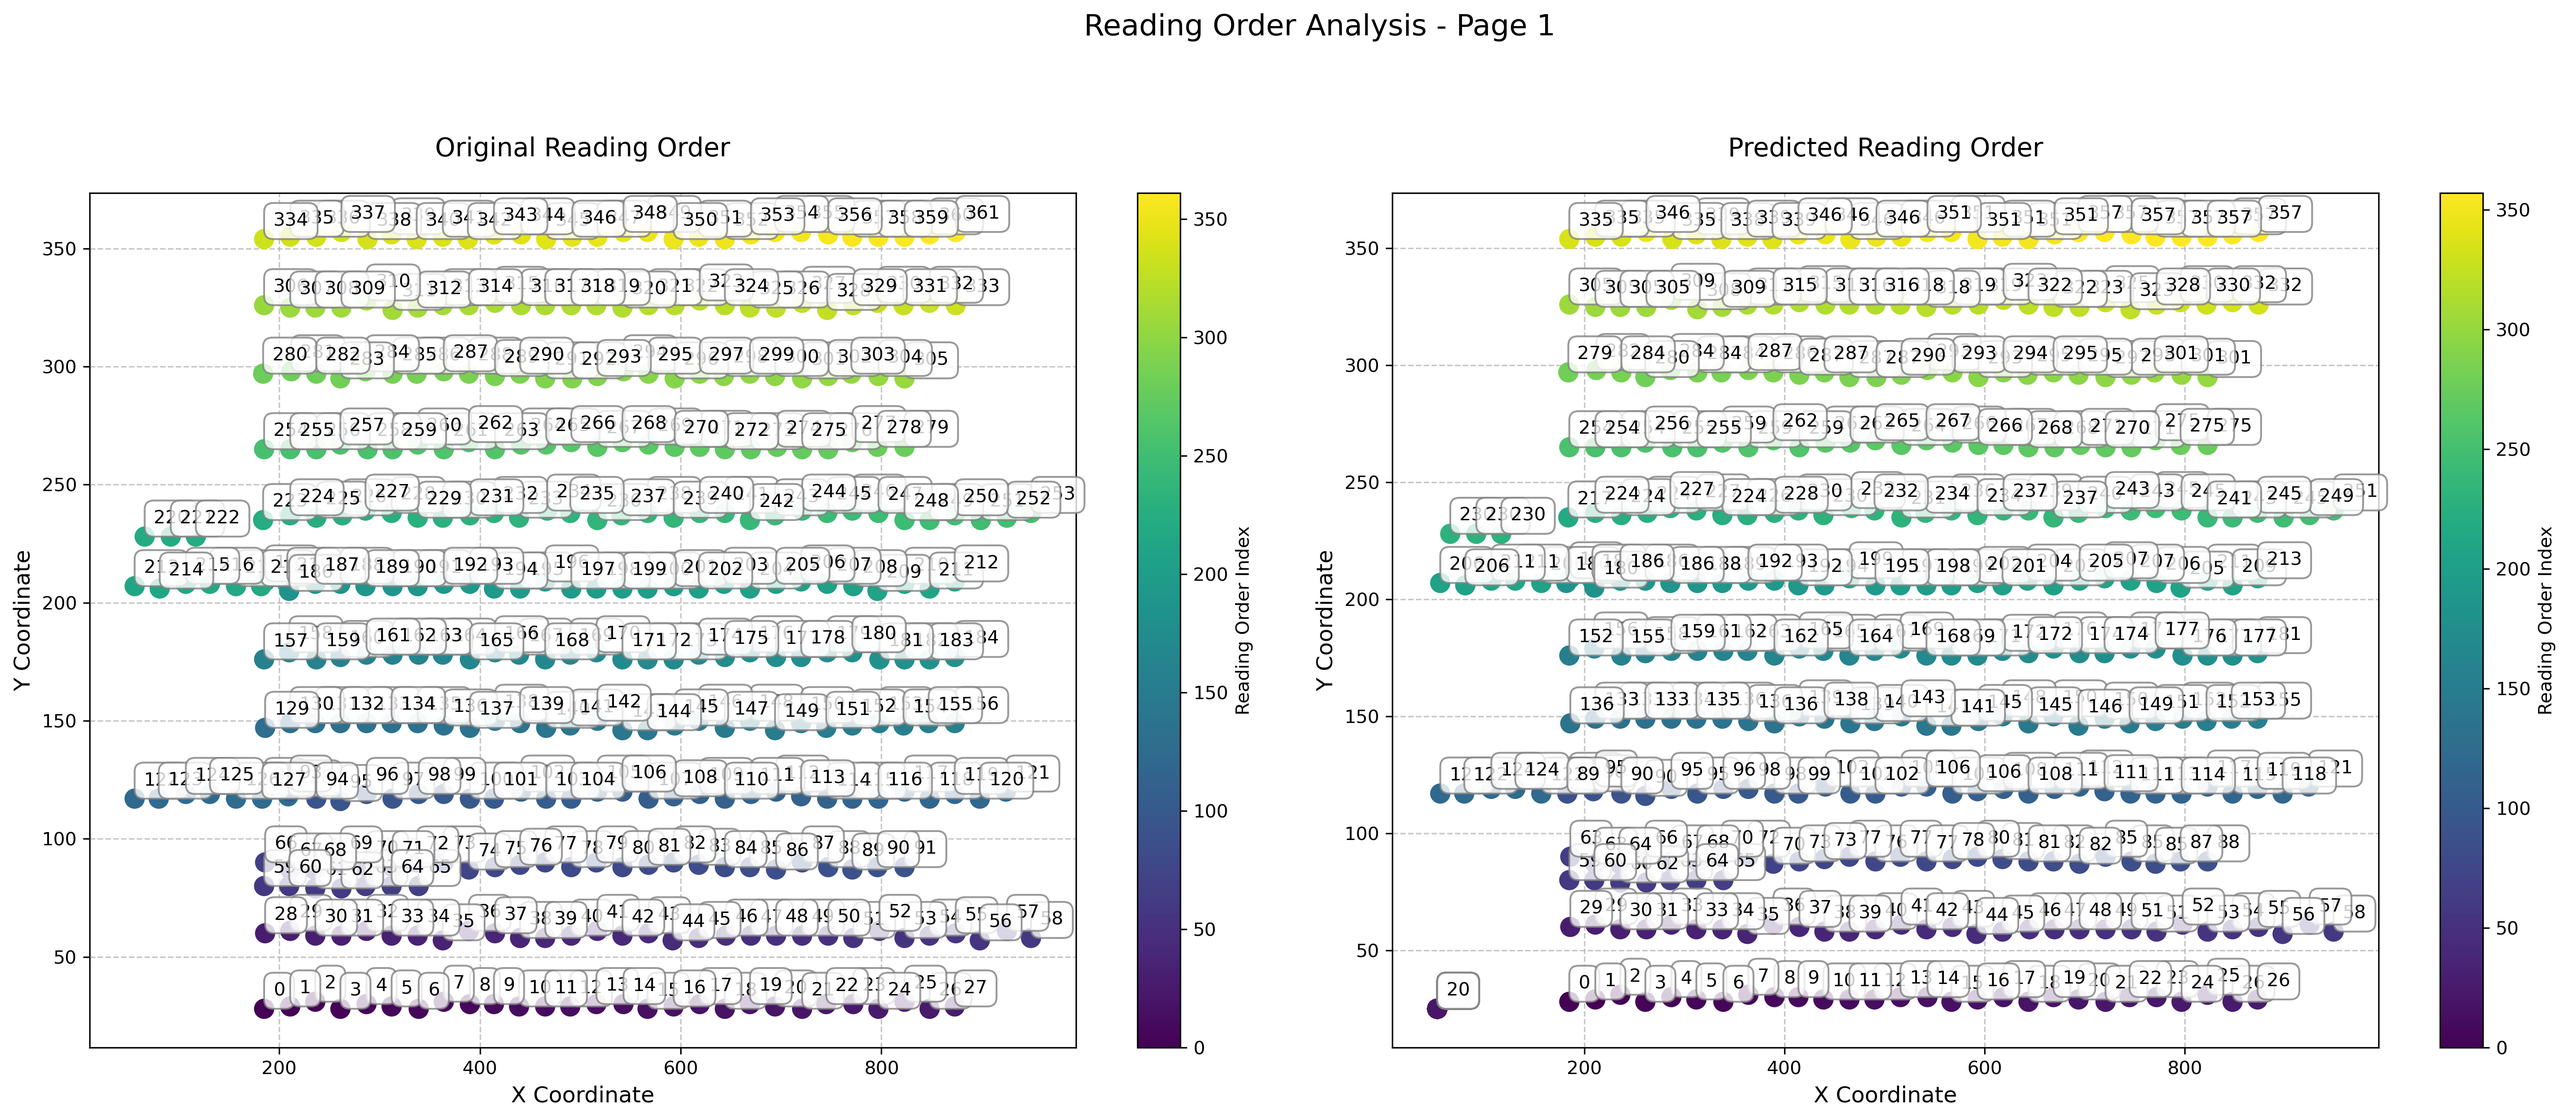
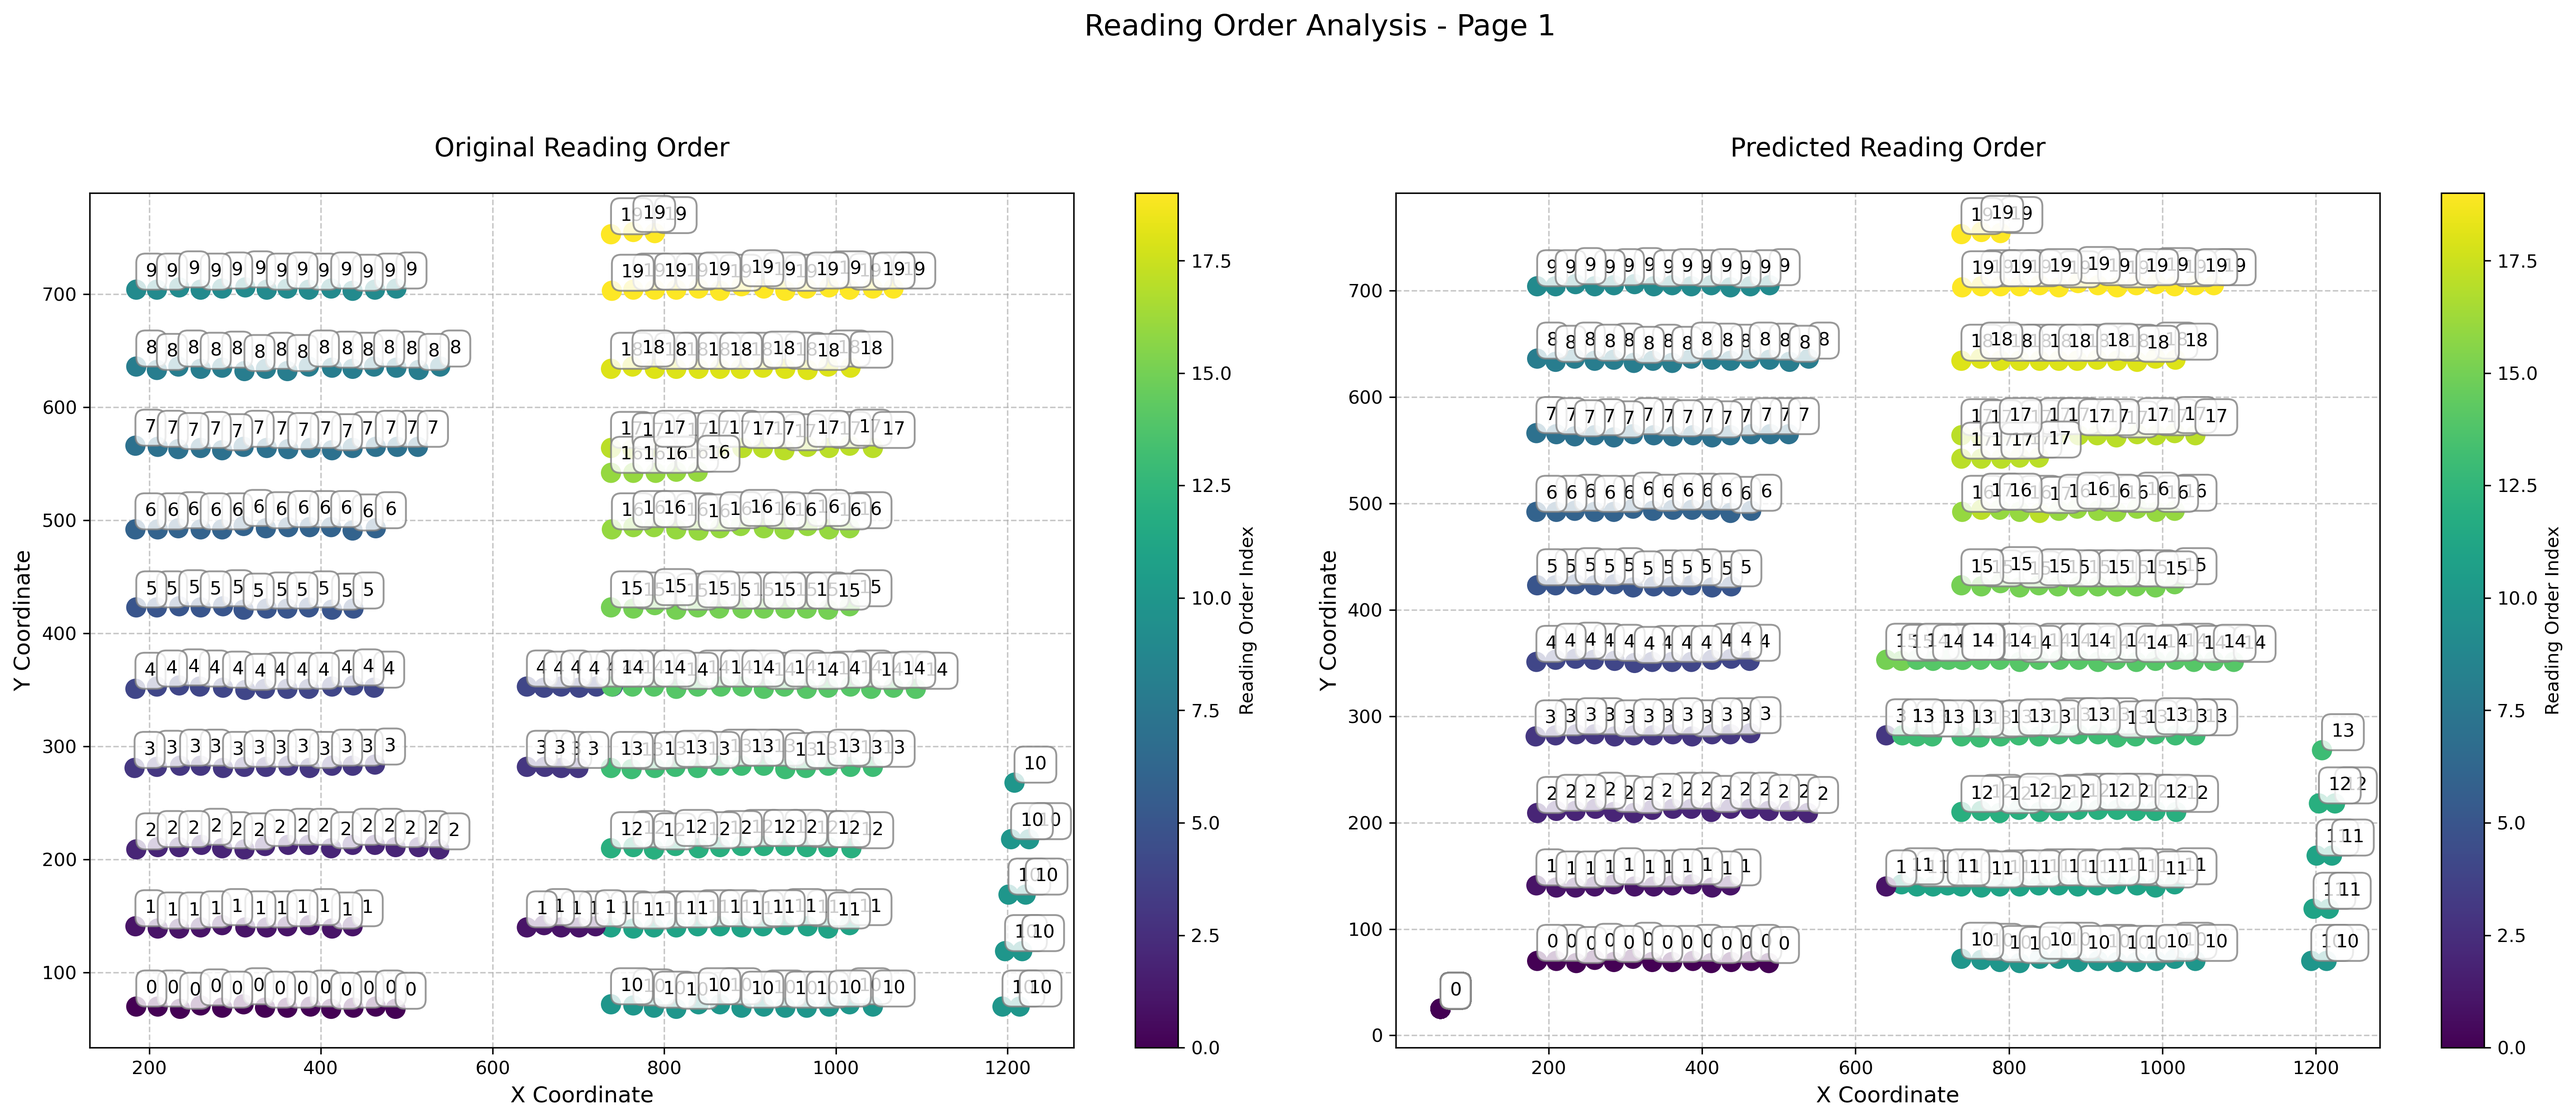
two columns generator

diff --git a/generate_data_2.py b/generate_data_2.py
@@ -1,0 +1,159 @@
+import numpy as np
+import random
+
+CHARS_PER_LINE = 34  # max possible characters per line for single column
+
+def generate_text_layout(page_width=1250, page_height=532, num_lines=20, chars_per_line_range=(30, 50),
+                        footnotes_prob=0.2, footnote_length_range=(10, 30), layout_type='single'):
+    """
+    Generate text layout with support for single and double columns
+    layout_type: 'single' or 'double' for column layout
+    """
+    points = []
+    labels = []
+    current_label = 0
+    
+    # Adjust parameters based on layout type
+    if layout_type == 'double':
+        # For double column, split the content area in half
+        column_width = (page_width * 0.7) / 2  # 70% of page width split into two columns
+        left_margins = [
+            page_width * 0.15,  # First column starts at 15% margin
+            page_width * 0.15 + column_width + (page_width * 0.1)  # Second column starts after first + gap
+        ]
+        right_margins = [
+            left_margins[0] + column_width,  # First column end
+            left_margins[1] + column_width   # Second column end
+        ]
+        chars_per_column = CHARS_PER_LINE // 2  # Reduce characters per line for each column
+    else:  # single column
+        left_margins = [page_width * 0.15]  # 15% margin from left
+        right_margins = [page_width * 0.85]  # 15% margin from right
+        chars_per_column = CHARS_PER_LINE
+    
+    line_height = page_height / (num_lines * 1.5)  # Allow space for footnotes
+    
+    # Generate text for each column
+    for col_idx, (left_margin, right_margin) in enumerate(zip(left_margins, right_margins)):
+        char_spacing = (right_margin - left_margin) / chars_per_column
+        y_position = line_height  # Start from top with some margin
+        
+        # Adjust number of lines for double column to fill page
+        col_lines = num_lines * 2 if layout_type == 'double' else num_lines
+        
+        # Generate main text lines for this column
+        for line_num in range(col_lines):
+            # Adjust character range for column width
+            adjusted_range = (
+                min(chars_per_line_range[0], chars_per_column),
+                min(chars_per_line_range[1], chars_per_column)
+            )
+            num_chars = random.randint(*adjusted_range)
+            
+            # Generate character positions for this line
+            for char_num in range(num_chars):
+                x = left_margin + char_num * char_spacing
+                # Add small random variation to make it look more natural
+                x += random.uniform(-1, 1)
+                y = y_position + random.uniform(-2, 2)
+                
+                points.append([int(x), int(y)])
+                labels.append(current_label)
+            
+            # Handle footnotes
+            if random.random() < footnotes_prob:
+                footnote_length = random.randint(*footnote_length_range)
+                footnote_position = random.choice(['left', 'right', 'below'])
+                
+                # Adjust footnote positioning for columns
+                if footnote_position == 'left':
+                    footnote_x_start = left_margin - (page_width * 0.1)
+                    footnote_y = y_position
+                    char_spacing_factor = 0.8
+                elif footnote_position == 'right':
+                    footnote_x_start = right_margin + (page_width * 0.02)
+                    footnote_y = y_position
+                    char_spacing_factor = 0.8
+                else:  # below
+                    footnote_x_start = left_margin
+                    footnote_y = y_position + line_height * 0.7
+                    char_spacing_factor = 1
+                
+                # Generate footnote characters
+                for char_num in range(footnote_length):
+                    x = footnote_x_start + char_num * char_spacing * char_spacing_factor
+                    x += random.uniform(-1, 1)
+                    y = footnote_y + random.uniform(-1, 1)
+                    
+                    # Handle footnote wrapping
+                    if footnote_position in ['left', 'right']:
+                        if footnote_position == 'left':
+                            max_width = (left_margin - (page_width * 0.1)) * 0.9
+                        else:  # right
+                            max_width = (page_width - right_margin - (page_width * 0.02))
+                        
+                        line_offset = int(char_num * char_spacing * char_spacing_factor / max_width)
+                        if line_offset > 0:
+                            x = footnote_x_start + (char_num * char_spacing * char_spacing_factor) % max_width
+                            y = footnote_y + line_offset * line_height * 0.7
+                    
+                    points.append([int(x), int(y)])
+                    labels.append(current_label)
+            
+            current_label += 1
+            y_position += line_height
+
+    return np.array(points), np.array(labels)
+
+def generate_realistic_parameters():
+    """Generate realistic variations in page layout parameters"""
+    page_width = random.randint(1200, 1300)
+    page_height = random.randint(500, 550)
+    num_lines = random.randint(5, 12)
+    
+    # Adjust character ranges based on layout type
+    layout_type = random.choice(['single', 'double'])
+    if layout_type == 'double':
+        min_chars = random.randint(10, 12)  # Smaller range for double column
+        max_chars = random.randint(15, CHARS_PER_LINE // 2)
+    else:
+        min_chars = random.randint(20, 24)
+        max_chars = random.randint(30, CHARS_PER_LINE)
+    
+    chars_per_line_range = (min_chars, max_chars)
+    footnotes_prob = random.uniform(0.10, 0.20)
+    
+    min_footnote = random.randint(1, 4)
+    max_footnote = random.randint(8, 10)
+    footnote_length_range = (min_footnote, max_footnote)
+    
+    return {
+        'page_width': page_width,
+        'page_height': page_height,
+        'num_lines': num_lines,
+        'chars_per_line_range': chars_per_line_range,
+        'footnotes_prob': footnotes_prob,
+        'footnote_length_range': footnote_length_range,
+        'layout_type': layout_type
+    }
+
+
+
+def save_points_and_labels(points, labels, points_file="points.txt", labels_file="labels.txt"):
+    """Save points and labels to separate filess"""
+    path = '/home/kartik/layout-analysis/data/synthetic-data/'
+    
+    # Save original points and labels
+    np.savetxt(path+points_file, points, fmt='%d', delimiter=' ')
+    np.savetxt(path+labels_file, labels, fmt='%d')
+
+    
+# Generate the dataset
+for i in range(20000):
+    params = generate_realistic_parameters()
+    points, labels = generate_text_layout(**params)
+    
+    # Save to files with sorted points
+    points_file_name = f"pg_{i}_points.txt"
+    labels_file_name = f"pg_{i}_labels.txt"
+    save_points_and_labels(points, labels, points_file_name, labels_file_name)

diff --git a/baseline_2.py b/baseline_2.py
@@ -9,7 +9,7 @@ from torch.nn import TransformerEncoder, TransformerEncoderLayer
 import random
 import math
 
-MAX_LENGTH = 500
+MAX_LENGTH = 1000
 
 class PointDataset(Dataset):
     def __init__(self, data_dir, split_files, max_points=MAX_LENGTH, normalize=True):
@@ -308,7 +308,7 @@ def main():
     
     # Create and train model
     model = ReadingOrderTransformer()
-    train_model(model, train_loader, val_loader, device=device, num_epochs=100)
+    train_model(model, train_loader, val_loader, device=device, num_epochs=10)
     
     # Load best model and evaluate
     model.load_state_dict(torch.load('/home/kartik/layout-analysis/models/best_model.pt'))
@@ -319,6 +319,8 @@ if __name__ == "__main__":
 
 
 # TODO
+# fix the generator code and make it mimic the manuscript well (top to bottom)
+# fi
 # normalize for page size
 # ordering is pretty wrog
 # make a nice evaluation metric

diff --git a/generate_data.py b/generate_data.py
@@ -31,7 +31,6 @@ def generate_text_layout(page_width=1250, page_height=532, num_lines=20, chars_p
             
             points.append([int(x), int(y)])
             labels.append(current_label)
-            current_label += 1
         
         # Randomly decide if this line has a footnote
         if random.random() < footnotes_prob:
@@ -78,8 +77,8 @@ def generate_text_layout(page_width=1250, page_height=532, num_lines=20, chars_p
                 
                 points.append([int(x), int(y)])
                 labels.append(current_label)
-                current_label += 1
-        
+
+        current_label += 1
         y_position += line_height
 
     return np.array(points), np.array(labels)
